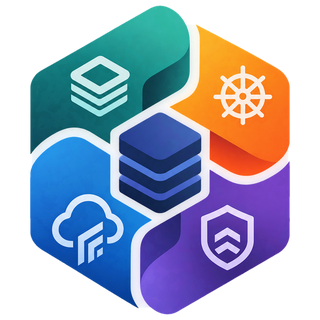
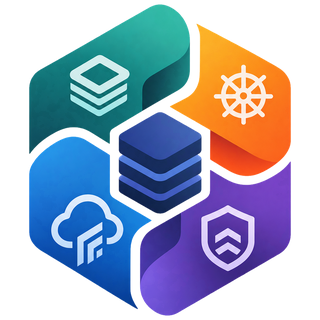
feat: provide the checks for Go services and rename the delivery workflow
- go.yaml: gofmt, go vet and the tests (with the race detector) for any Go
  service, with the Go version from its go.mod
- service.yaml becomes delivery.yaml, clearer next to go.yaml; the old name
  stays until every service calls the new one
- The logo's gaps are transparent now, so it reads well on dark backgrounds

diff --git a/docs/how-it-works.md b/docs/how-it-works.md
@@ -22,7 +22,7 @@ image: ghcr.io/hvpaiva/back-hello:sha-4f96edd
 size: medium
 ```
 
-Stages are branches: `staging` deploys to staging, `main` to production. The service's CI runs its own tests and hands the rest to the platform's delivery workflow (`.github/workflows/service.yaml` in this repository), the same for every service.
+Stages are branches: `staging` deploys to staging, `main` to production. The service's CI is two calls to workflows the platform provides in this repository: `go.yaml` checks a Go service (formatting, `go vet`, tests), and `delivery.yaml` does the rest, the same for every service.
 
 Before any of that, a pull request gets checked: the delivery workflow renders `charts/hello/` with the platform's chart for each stage, so a typo or a size the platform doesn't offer fails in the pull request, with the chart's own message.
 
@@ -55,9 +55,14 @@ The platform team owns this repository.
 
 An ApplicationSet reads `charts/*/values.yaml` from each service's repository, once per stage branch, and creates one Application per service and stage (`hello-staging`, `hello-production`) in the `apps` project. Nobody writes those Applications by hand.
 
-### The delivery workflow
+### The workflows services call
 
-`.github/workflows/service.yaml` is a reusable workflow, the GitHub Actions counterpart of a CircleCI orb. A service's CI calls it after its tests, with the service's folder name, and it does the rest the same way for everyone: validation on pull requests, build and deploy on `staging`, promotion on `main`. Services call it at `main`, so a fix to it reaches all of them at once.
+`.github/workflows/` holds reusable workflows, the GitHub Actions counterpart of CircleCI orbs. A service's CI is little more than two calls:
+
+- `go.yaml` checks a Go service: formatting, `go vet` and the tests, with the Go version from its `go.mod`. Services in other languages would get their own.
+- `delivery.yaml` takes the service's folder name and ships it, the same way for every service: validation on pull requests, build and deploy on `staging`, promotion on `main`.
+
+Services call them at `main`, so a fix reaches all of them at once.
 
 ### The golden path
 

diff --git a/README.md b/README.md
@@ -30,7 +30,7 @@ Two perspectives on the same cluster.
 
 ### The platform behind it
 
-Argo CD installs and upgrades everything from Git, itself included. One chart turns what a service declares into Deployments, Services and routes, with the platform's defaults for probes, resources and security. One workflow, called from each service's CI, validates, builds and ships every service the same way. Argo CD projects decide what each team may deploy, and where.
+Argo CD installs and upgrades everything from Git, itself included. One chart turns what a service declares into Deployments, Services and routes, with the platform's defaults for probes, resources and security. Workflows the platform maintains, called from each service's CI, check, validate, build and ship every service the same way. Argo CD projects decide what each team may deploy, and where.
 
 ```mermaid
 flowchart LR
@@ -102,7 +102,7 @@ In this repository:
 
 - `cluster/` is the base layer, what an infrastructure team would hand over: a cluster, an ingress controller and a cloud account. `just` installs it.
 - `platform/` is everything Argo CD delivers, starting with Argo CD itself. `platform/root.yaml` is the only thing applied by hand.
-- `charts/app/` is the golden path for services, and `.github/workflows/service.yaml` the workflow every service's CI calls to validate and ship.
+- `charts/app/` is the golden path for services. `.github/workflows/` holds the workflows services' CI calls: `go.yaml` checks Go services, `delivery.yaml` validates and ships any service.
 - `docs/` explains [how it works](docs/how-it-works.md), collects [notes on the problems we ran into](docs/platform-notes.md), and records [why it's built this way](docs/decisions.md).
 
 ## Isolation

diff --git a/docs/decisions.md b/docs/decisions.md
@@ -18,7 +18,7 @@ Why the lab is built the way it is. Most of these trade realism for something th
 - The running version is in Git. CI commits the image it built instead of telling Argo CD about it through its API. Git then always says what runs where, rollback is a revert, a rebuilt cluster comes back with the same versions, and CI needs no access to the cluster. The cost is a commit from CI on every deploy.
 - Production runs the image staging ran. Promotion copies the image; it doesn't rebuild from `main`.
 - Deploy feedback comes from Argo CD, not from CI. CI is done once it commits the image; Argo CD tells GitHub when that version is running and healthy, through a GitHub App, so CI still needs no access to the cluster.
-- One delivery workflow for every service, maintained by the platform. Services call it at `main`, the same trade-off as the chart: a fix reaches every service at once, and so does a mistake. A service that needs stability can pin a commit instead.
+- The platform maintains the services' CI too: checks per language (`go.yaml` for now) and one delivery workflow for all. Services call them at `main`, the same trade-off as the chart: a fix reaches every service at once, and so does a mistake. A service that needs stability can pin a commit instead.
 - A Helm chart as the golden path. Helm is how many teams already package their services. Here the platform maintains one chart, and each service only declares what it needs, much like a CircleCI orb.
 - Services in public GitHub repositories on a personal account. Argo CD reads them without credentials, and no company system is involved.
 

diff --git a/docs/platform-notes.md b/docs/platform-notes.md
@@ -44,7 +44,7 @@ Two settings in the notification template are easy to get wrong. A service's App
 
 ## A reusable workflow has the caller's permissions
 
-The delivery workflow pushes commits and images, but it can't grant itself permission to: it runs with the token of the service's CI, limited to what the calling job allows. Every service's CI has to grant `contents: write` and `packages: write` to the job that calls it.
+The delivery workflow pushes commits and images, but it can't grant itself permission to: it runs with the token of the service's CI, limited to what the calling job allows. Every service's CI has to grant `contents: write` and `packages: write` to the job that calls `delivery.yaml`.
 
 ## A failing check doesn't block anything on its own
 
